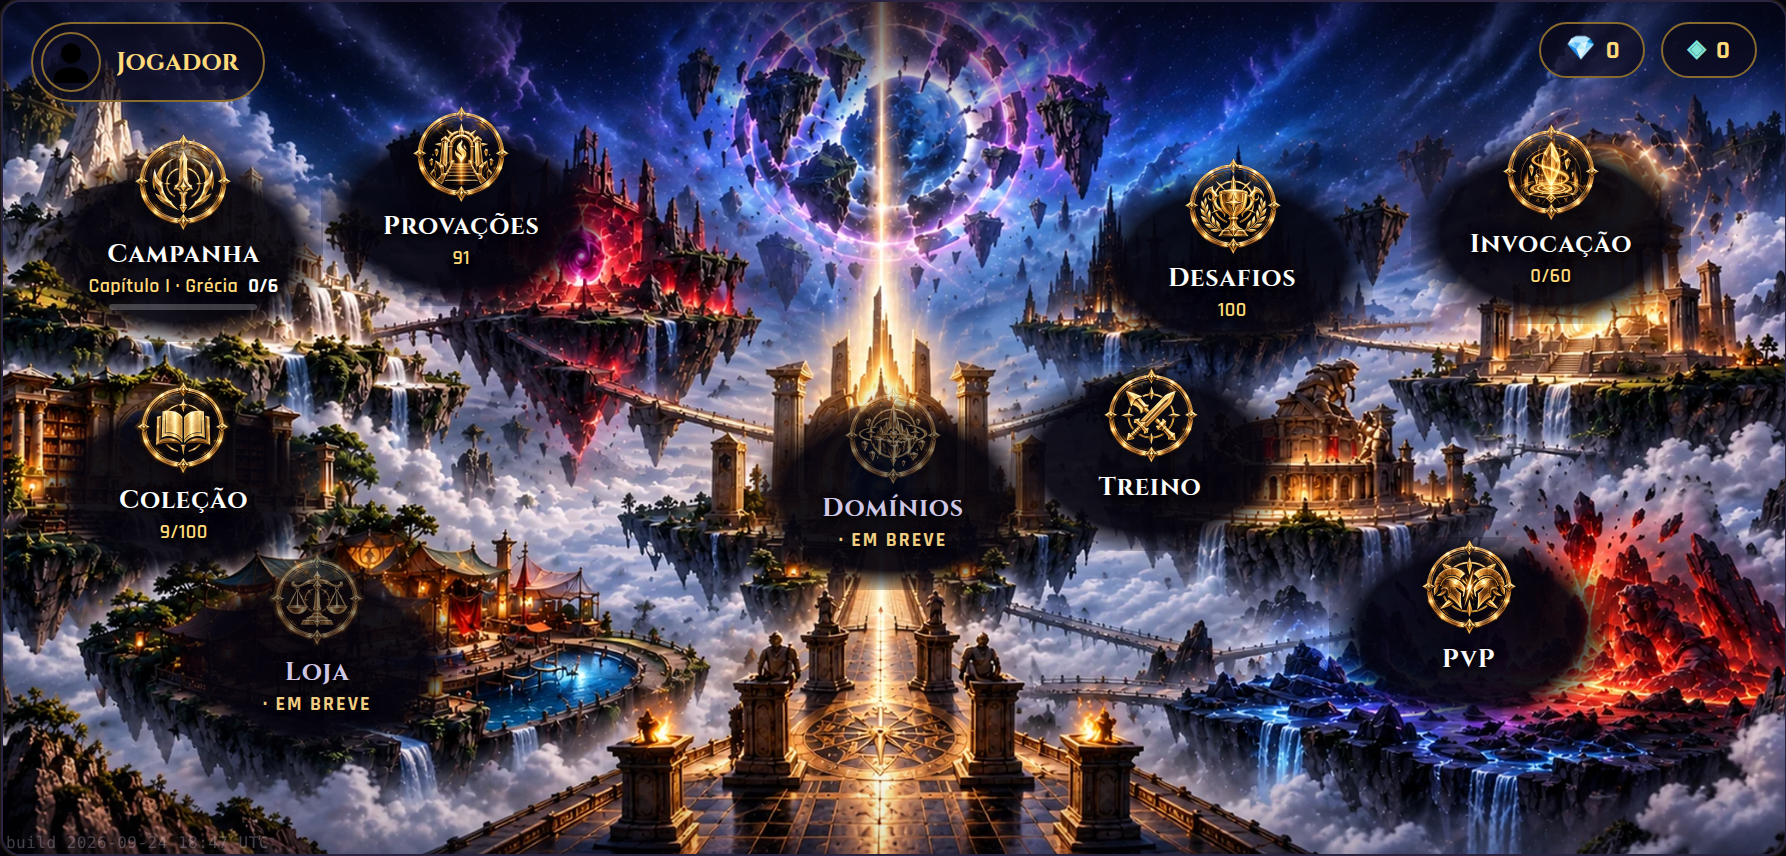
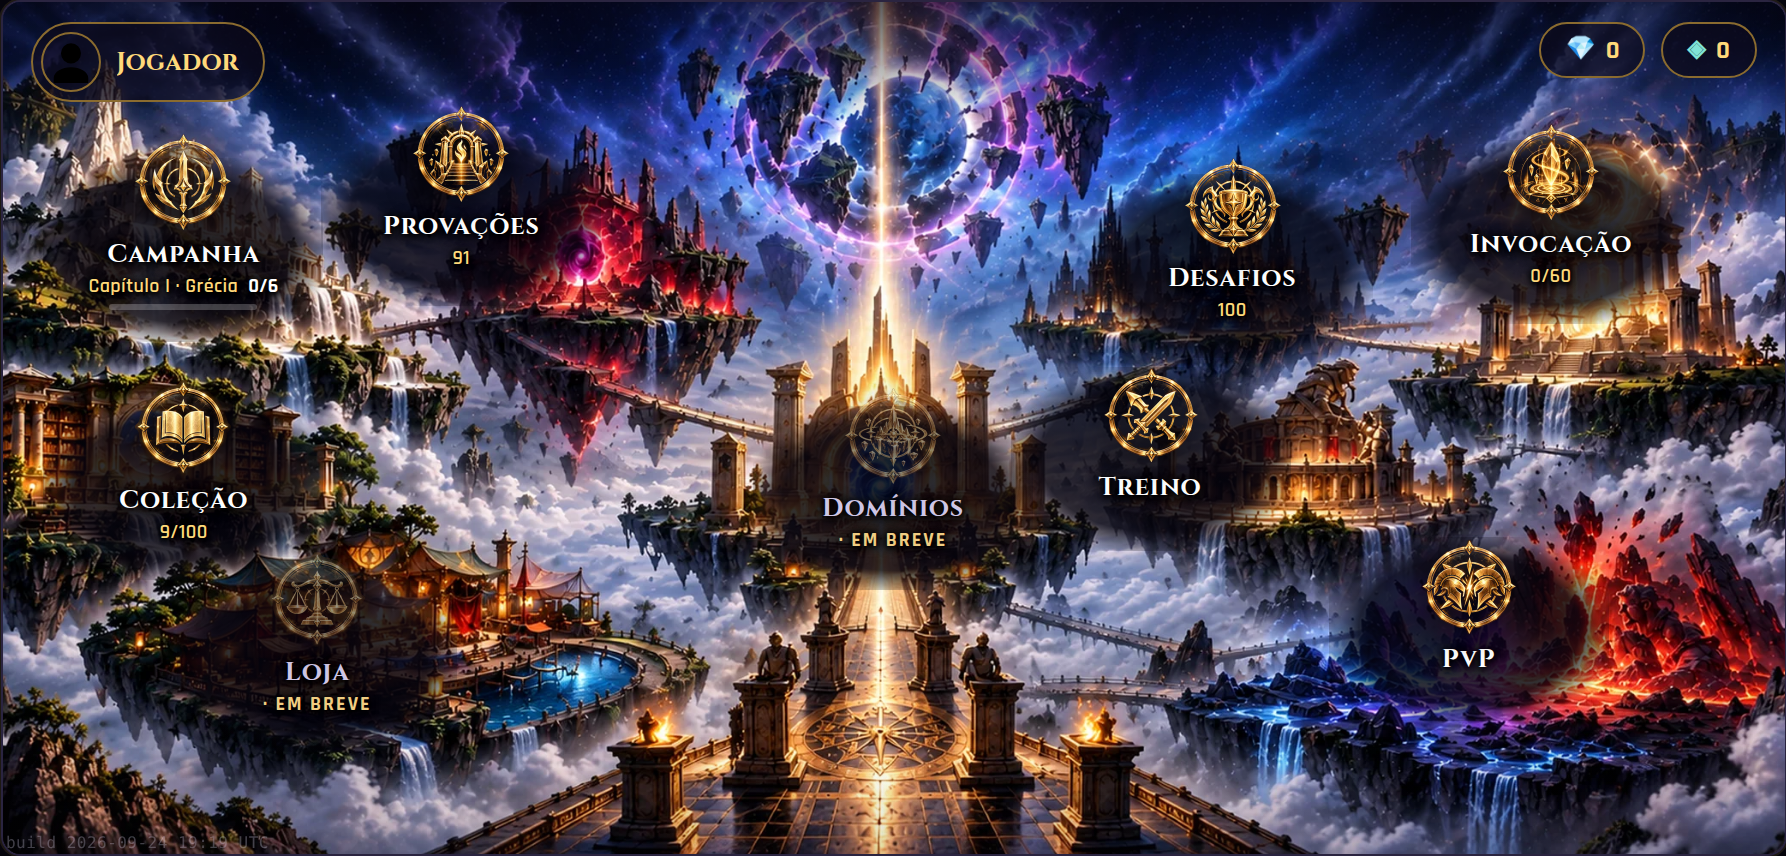
§311b: aliviar o halo do mapa — a sombra do texto carrega, o radial só complementa
O fundo do §311 (radial .95/.93, pior contraste 6,51) tapava arte demais
— e a arte larga (§310) existe para ser vista. Testei duas combinações a
893 (a captura é o veredito, §281): (a) radial mais claro (.90/.87),
sombra igual → pior 5,55; (b) radial bem mais claro (.85/.82) + sombra do
texto mais forte (contorno preto 0-offset que abraça a letra) → pior cru
4,82. O dono escolheu (b).

O mecanismo (vale para as próximas telas): a sombra escurece só atrás das
letras; o radial escurece um círculo inteiro. Para a mesma leitura, (b)
tapa menos arte. E a sombra acompanha o texto — se um nome/contador
crescer, a sombra cresce junto; o radial é fixo e a borda do texto cai na
transição (foi o que fez o contador da Campanha oscilar). Regra:
escurecer o fundo custa arte tapada; atrás da letra custa nada. Onde der,
a sombra vem primeiro, o fundo só complementa.

A guarda mede o fundo com o texto escondido (não vê a sombra, §304e),
então a sombra não muda o número cru (4,82, definido pelo radial) mas
segura a leitura percebida — por isso o radial pôde clarear.

Lição (oposto útil do §309b): lá o dono pediu "não competir" sem alvo e
apliquei .42 (a extensão sumiu, erro por excesso); aqui pediu o mínimo
com o piso declarado (4,5) e achei 4,82 usando a sombra. Direção
qualitativa sem número erra por excesso ou falta; com o piso, acha-se o
mínimo.

Guarda mapa_contraste ≥4,5 nas 4 larguras segue verde (agora pior 4,82).
Capturas atualizadas (variante b). Suíte + build verdes.
[…]

diff --git a/src/shell.html b/src/shell.html
@@ -1026,7 +1026,7 @@ body{font-family:'Rajdhani',sans-serif;color:var(--ink);display:grid;place-items
    (embaixo do ícone), onde a leitura mora. */
 .ilha::before{content:"";position:absolute;left:50%;top:66%;transform:translate(-50%,-50%);
   width:140px;height:92px;z-index:-1;pointer-events:none;
-  background:radial-gradient(ellipse 58% 58% at 50% 50%,rgba(5,4,14,.95) 0%,rgba(5,4,14,.93) 68%,rgba(5,4,14,0) 93%)}
+  background:radial-gradient(ellipse 58% 58% at 50% 50%,rgba(5,4,14,.85) 0%,rgba(5,4,14,.82) 68%,rgba(5,4,14,0) 93%)}
 .ilha:focus{outline:none}
 .ilha:focus-visible .ilha__ic{filter:drop-shadow(0 0 0 var(--gold-text)) drop-shadow(0 3px 8px rgba(0,0,0,.7));outline:2px solid var(--gold-text);outline-offset:2px;border-radius:8px}
 .ilha:active{transform:translate(-50%,-50%) scale(.96)}
@@ -1040,9 +1040,9 @@ body{font-family:'Rajdhani',sans-serif;color:var(--ink);display:grid;place-items
 .ilha--semarte .ilha__reserva{display:flex}
 .ilha--semarte .ilha__ic{display:none}
 .ilha__nome{font-family:'Cinzel',serif;font-weight:700;font-size:13px;letter-spacing:.03em;
-  color:#fff;text-shadow:0 1px 3px #000,0 2px 8px rgba(0,0,0,.9);margin-top:2px;white-space:nowrap}
+  color:#fff;text-shadow:0 0 3px #000,0 0 7px rgba(0,0,0,.92),0 1px 3px #000,0 2px 8px rgba(0,0,0,.95);margin-top:2px;white-space:nowrap}
 .ilha__cont{font-family:'Rajdhani',sans-serif;font-weight:600;font-size:10px;letter-spacing:.02em;
-  color:var(--gold-text);text-shadow:0 1px 2px #000,0 1px 5px rgba(0,0,0,.9);white-space:nowrap}
+  color:var(--gold-text);text-shadow:0 0 3px #000,0 0 6px rgba(0,0,0,.92),0 1px 2px #000,0 1px 5px rgba(0,0,0,.95);white-space:nowrap}
 .ilha__cont--camp{display:flex;gap:5px;align-items:baseline;justify-content:center}
 .ilha__campnum{color:#fff;font-weight:700}
 .ilha__barra{margin-top:2px;width:74px;height:3px;border-radius:999px;overflow:hidden;background:rgba(255,255,255,.22)}
@@ -1052,9 +1052,9 @@ body{font-family:'Rajdhani',sans-serif;color:var(--ink);display:grid;place-items
    roxo/dourado-escuro do §306 lia bem sobre arte clara mas SUMIRIA sobre o fundo escuro — a leitura é o piso). */
 .ilha--breve{cursor:default}
 .ilha--breve .ilha__ic{opacity:.5;filter:drop-shadow(0 3px 8px rgba(0,0,0,.7)) grayscale(.25)}
-.ilha--breve .ilha__nome{color:#cfc7e6;text-shadow:0 1px 3px #000,0 2px 8px rgba(0,0,0,.9)}
+.ilha--breve .ilha__nome{color:#cfc7e6;text-shadow:0 0 3px #000,0 0 7px rgba(0,0,0,.92),0 1px 3px #000,0 2px 8px rgba(0,0,0,.95)}
 .ilha__breveTag{font-family:'Rajdhani',sans-serif;font-weight:700;font-size:10px;letter-spacing:.1em;
-  text-transform:uppercase;color:#f0cd82;text-shadow:0 1px 3px #000,0 1px 5px rgba(0,0,0,.9)}
+  text-transform:uppercase;color:#f0cd82;text-shadow:0 0 3px #000,0 0 6px rgba(0,0,0,.92),0 1px 3px #000,0 1px 5px rgba(0,0,0,.95)}
 
 /* telas de lista (Provações) e marcador (Campanha/Invocação/Coleção) */
 .tela{position:absolute;inset:0;display:flex;flex-direction:column;z-index:2;overflow:hidden}

diff --git a/DECISOES.md b/DECISOES.md
@@ -6,6 +6,36 @@ O valor daqui é evitar que uma decisão seja desfeita por parecer arbitrária.
 
 ---
 
+## §311b — o halo do mapa ficou ESCURO DEMAIS: a SOMBRA carrega, o radial só complementa. E a lição (o oposto útil do §309b).
+
+O fundo do §311 (radial .95/.93, pior contraste 6,51) tapava arte demais — o dono acabara de gerar a arte larga (§310) e
+quer VÊ-LA. Aliviar sem furar o piso 4,5. Testei DUAS combinações a 893 (a captura é o veredito, §281):
+- **(a) radial mais claro (.90/.87), sombra como está** → pior contraste **5,55**.
+- **(b) radial BEM mais claro (.85/.82) + sombra do texto MAIS FORTE** (contorno preto `0 0 3px/6-7px` que abraça a
+  letra) → pior contraste cru **4,82**. **O dono escolheu (b).**
+
+**O MECANISMO (a razão de (b) ganhar — registrar p/ as próximas telas):** a SOMBRA escurece só ATRÁS DAS LETRAS; o radial
+escurece um CÍRCULO inteiro. Para a MESMA leitura, (b) tapa MENOS arte. E a sombra ACOMPANHA o texto: se um nome/contador
+crescer, a sombra cresce junto; o radial é de tamanho FIXO e a borda do texto cai na transição — foi o que fez o contador
+da Campanha oscilar durante todo este corte (§311/§311b). **Regra:** escurecer o FUNDO custa arte tapada; escurecer atrás
+da LETRA custa NADA. **Onde der, a sombra vem primeiro; o fundo só complementa** o que a sombra não segura.
+
+**Por que o número cru de (b) é baixo (4,82) e ainda assim lê:** a guarda mede o fundo com o TEXTO ESCONDIDO — não enxerga
+a sombra (§304e/§281). Então a sombra reforçada NÃO muda o número cru (definido só pelo radial), mas segura a leitura
+PERCEBIDA na captura. Por isso o radial pôde ficar bem mais claro sem a leitura cair. Deixei 4,82 (não menos) porque a
+borda do contador da Campanha cai na cachoeira clara e oscila; o piso é 4,5, a margem é fina mas a sombra a sustenta.
+
+**★ A LIÇÃO — o OPOSTO ÚTIL do §309b (mesma família, resultado invertido):** no §309b o dono pediu "não competir" SEM alvo
+medível e eu apliquei brightness(.42) — a extensão SUMIU (errei por EXCESSO de obediência literal). Aqui o dono pediu o
+MÍNIMO que ainda funciona COM o piso declarado (4,5), e eu achei **4,82** usando a sombra p/ carregar parte do trabalho.
+**Direção qualitativa SEM número erra por excesso ou por falta; COM o piso declarado, acha-se o mínimo.** (É a segunda
+metade da lição do §309b, agora com o caso positivo: dar o alvo medível não é burocracia — é o que deixa achar o ótimo.)
+
+**Guardas:** as mesmas do §311 (`mapa_contraste.test.js` ≥4,5 nas 4 larguras — agora pior 4,82) seguem verdes; §311b só
+troca a intensidade do radial e reforça a sombra. Capturas atualizadas em `docs/capturas-311/` (variante b).
+
+---
+
 ## §311 — ACABAMENTO do mapa: ícone menor, campanha longe do JOGADOR, e o FUNDO ESCURO atrás dos rótulos (pendente do §309).
 
 Aprovada a arte larga (§310), três acabamentos + o fundo atrás dos ícones que o dono pediu desde o §309 e ficou esperando

diff --git a/ESTADO.md b/ESTADO.md
@@ -2,6 +2,21 @@
 
 > Atualizado ao fim de cada sessão. Quem lê é uma sessão sem memória.
 
+## ★ MAPA §311b — o halo ficou escuro demais: a SOMBRA carrega, o radial só complementa. Lição: oposto útil do §309b.
+
+O fundo do §311 (radial .95/.93, pior 6,51) tapava arte demais. Testei duas a 893 (captura = veredito, §281): (a) radial
+.90/.87 sombra igual → pior 5,55; **(b) radial .85/.82 + sombra do texto MAIS FORTE** (contorno preto 0-offset que abraça
+a letra) → pior cru **4,82**. **Dono escolheu (b).** **Mecanismo (vale p/ próximas telas):** a sombra escurece só ATRÁS DA
+LETRA; o radial escurece um CÍRCULO inteiro — p/ a mesma leitura, (b) tapa MENOS arte. E a sombra ACOMPANHA o texto (cresce
+com ele); o radial é FIXO e a borda do texto cai na transição — foi o que fez o contador da Campanha oscilar. **Regra:**
+escurecer o FUNDO custa arte tapada; atrás da LETRA custa nada → a sombra vem primeiro, o fundo só complementa. A guarda
+mede com o texto escondido (não vê a sombra, §304e), então a sombra não muda o número cru (4,82, definido pelo radial) mas
+segura a leitura percebida — por isso o radial pôde clarear. **★ Lição (oposto útil do §309b):** lá o dono pediu "não
+competir" SEM alvo e eu apliquei .42 (sumiu, erro por excesso); aqui pediu o MÍNIMO COM piso declarado (4,5) e achei 4,82
+usando a sombra. Direção qualitativa sem número erra por excesso ou falta; com o piso, acha-se o mínimo. Guardas do §311
+(`mapa_contraste` ≥4,5 nas 4 larguras, agora pior 4,82) seguem verdes. **Arquivos:** `src/shell.html` (radial .85/.82 +
+sombras reforçadas), `docs/capturas-311/` (variante b). Ver DECISOES §311b.
+
 ## ★ MAPA §311 — ACABAMENTO: ícone 62→48px, campanha longe do JOGADOR, fundo escuro atrás dos rótulos (contraste ≥4,5).
 
 Aprovada a arte larga (§310), o acabamento. **(1) Ícone 62→48px:** a 62 tapava a ilha; 48 dá ~40 físicos no S24 (escala
